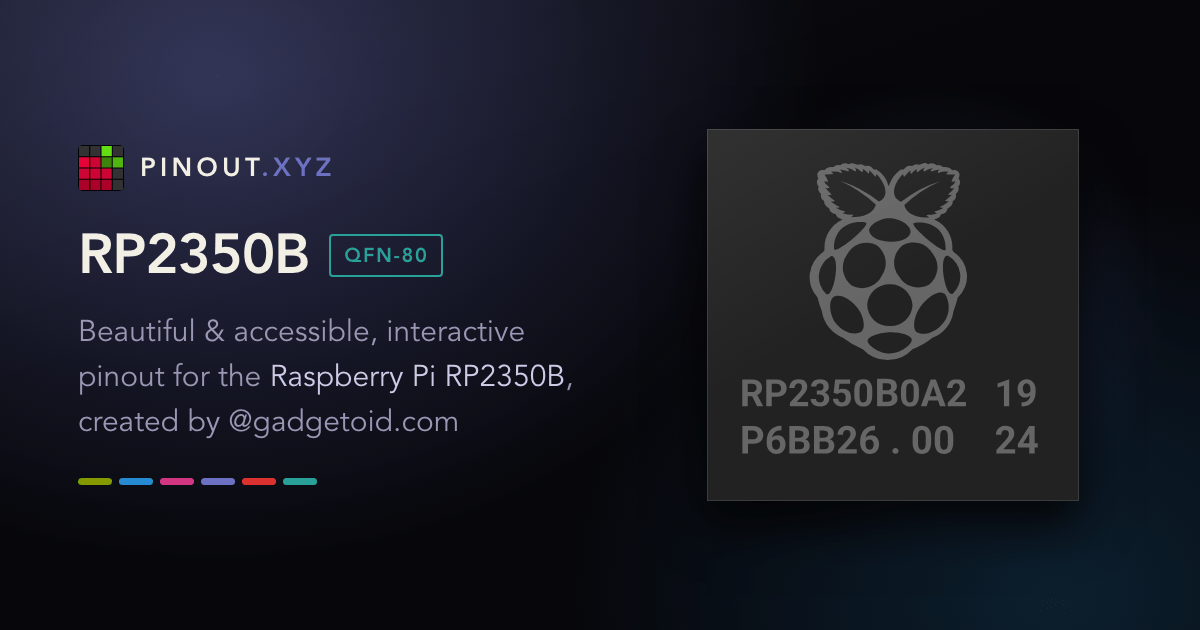
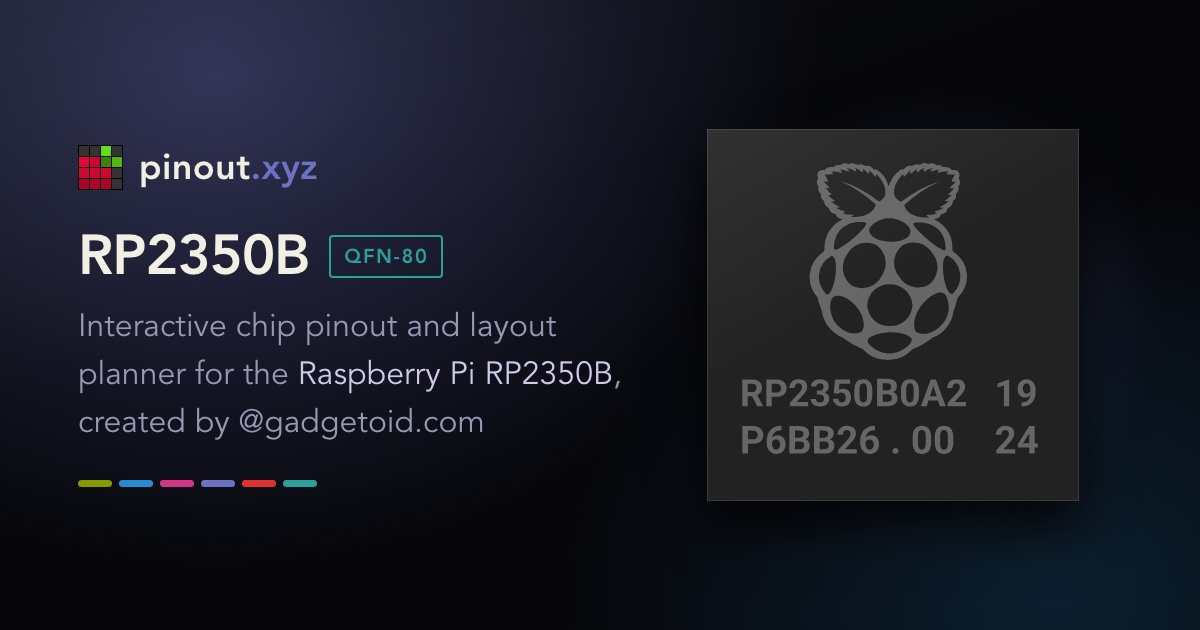
More social card pedantry.

diff --git a/index.html b/index.html
@@ -10,7 +10,7 @@
     <meta property="og:type" content="website">
     <meta property="og:url" content="https://rp2350b.pinout.xyz/">
     <meta property="og:title" content="Raspberry Pi RP2350B (QFN-80) GPIO Pinout">
-    <meta property="og:description" content="Beautiful &amp; accessible, interactive pinout for the Raspberry Pi RP2350B, created by @gadgetoid.com">
+    <meta property="og:description" content="Interactive chip pinout and layout planner for the Raspberry Pi RP2350B, created by @gadgetoid.com">
     <meta property="og:image" content="https://rp2350b.pinout.xyz/og.png">
     <meta property="og:image:width" content="1200">
     <meta property="og:image:height" content="630">
